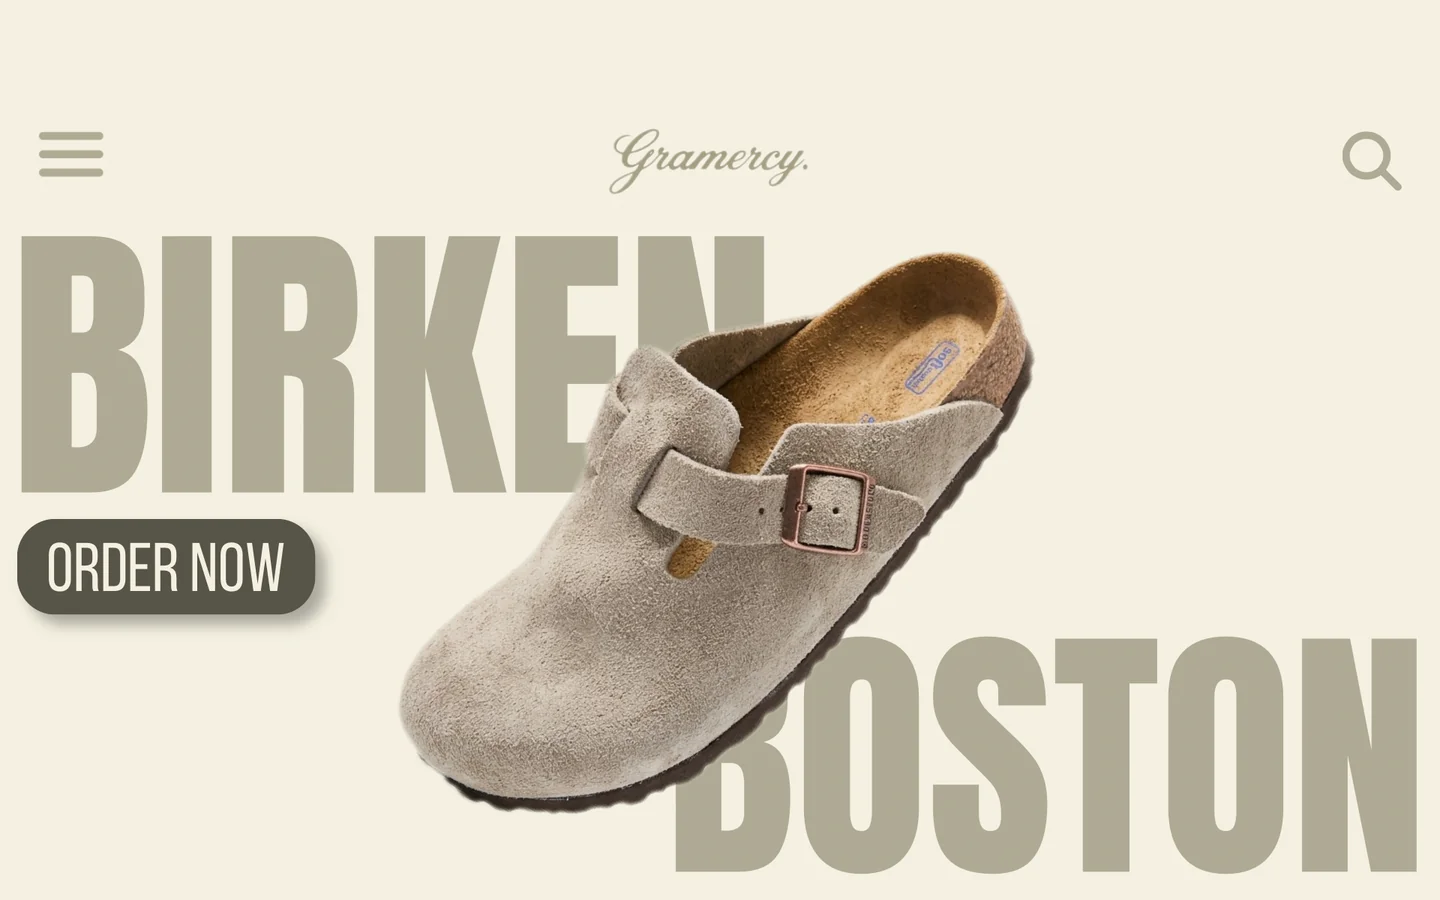
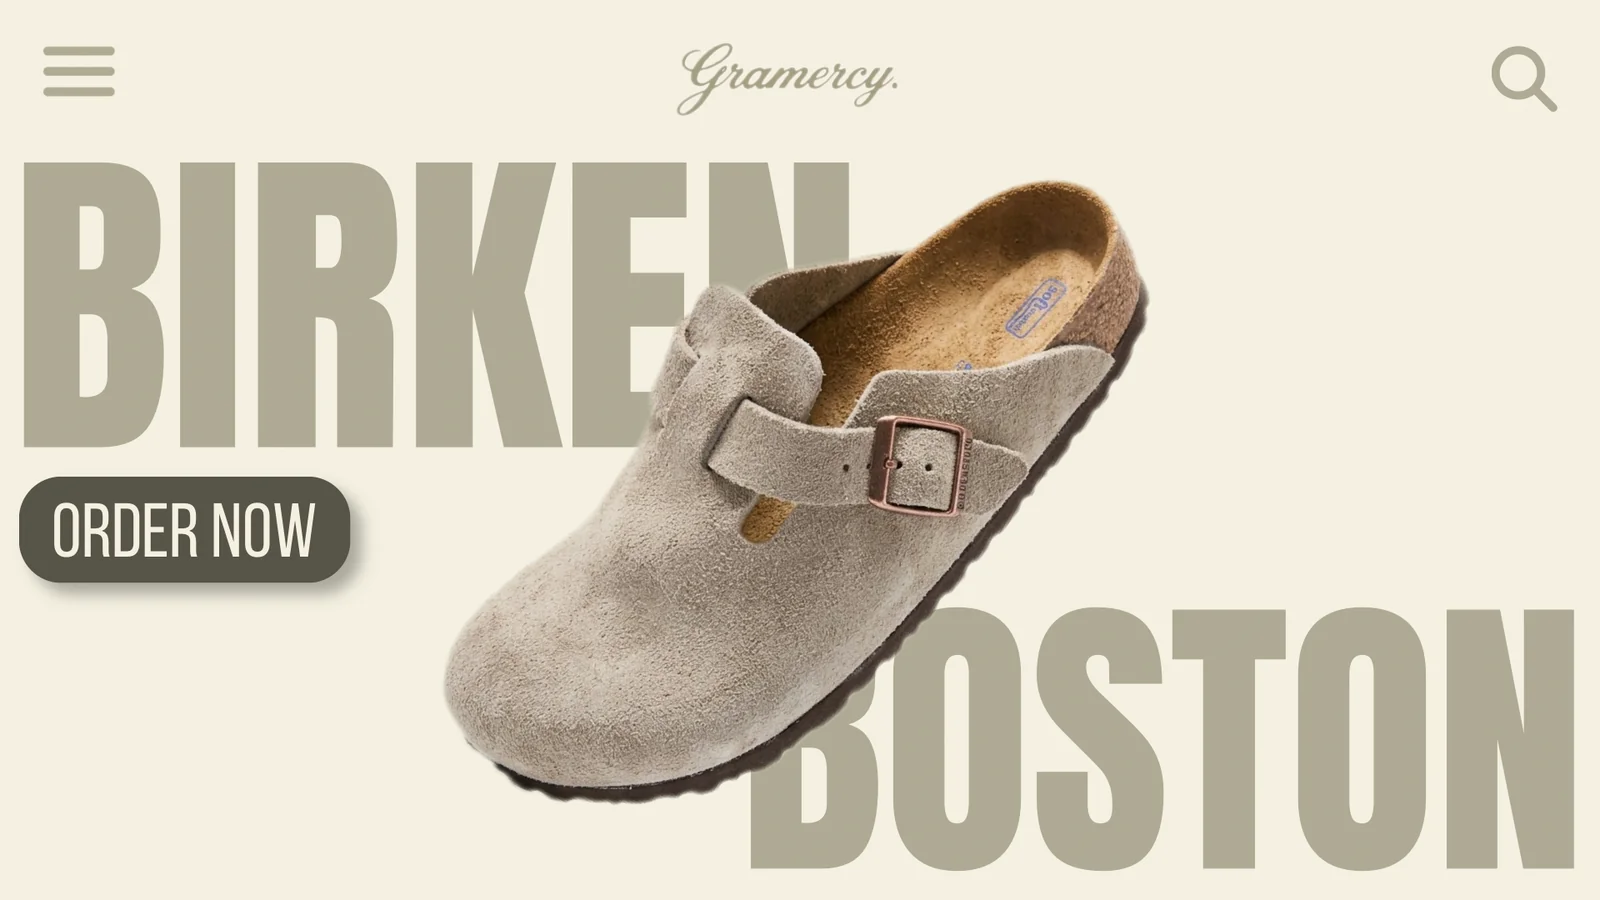
Use a 16:9 laptop screen so the Gramercy screens fit without padding
Claude-Session: https://claude.ai/code/session_01EY3ufN2MeomTbdyd9kzNmH

diff --git a/src/components/screens/Screens.tsx b/src/components/screens/Screens.tsx
@@ -2,7 +2,7 @@ import type { ScreenId } from "@/data/content";
 
 /*
  * Pantallas que se muestran dentro de la laptop y en el portafolio.
- * Las cuatro primeras son pantallas del concepto Gramercy (public/projects, 16:10);
+ * Las cuatro primeras son pantallas del concepto Gramercy (public/projects, 16:9);
  * el panel de métricas es una interfaz propia en HTML.
  */
 
@@ -10,25 +10,25 @@ const images: Record<Exclude<ScreenId, "dashboard">, { src: string; alt: string;
   home: {
     src: "/projects/gramercy-home.webp",
     alt: "Gramercy, portada: zueco Birkenstock Boston con el titular BIRKEN BOSTON y el botón Order now",
-    width: 1440,
+    width: 1600,
     height: 900,
   },
   product: {
     src: "/projects/gramercy-product.webp",
     alt: "Gramercy, ficha de producto: Birkenstock Boston a 50 dólares con delivery gratis, stock y botón para añadir al carrito",
-    width: 1440,
+    width: 1600,
     height: 900,
   },
   cart: {
     src: "/projects/gramercy-cart.webp",
     alt: "Gramercy, carrito: selector de tallas, ubicación de entrega y resumen con total de 50 dólares",
-    width: 1440,
+    width: 1600,
     height: 900,
   },
   payment: {
     src: "/projects/gramercy-payment.webp",
     alt: "Gramercy, métodos de pago: Pago Móvil, Binance y efectivo",
-    width: 1440,
+    width: 1600,
     height: 900,
   },
 };

diff --git a/src/app/globals.css b/src/app/globals.css
@@ -365,7 +365,7 @@ a {
 }
 .laptop__screen {
   position: relative;
-  aspect-ratio: 16 / 10;
+  aspect-ratio: 16 / 9;
   overflow: hidden;
   border-radius: 0.35cqw;
   background: #000;
@@ -1148,7 +1148,7 @@ a {
 }
 .work__screen {
   position: relative;
-  aspect-ratio: 16 / 10;
+  aspect-ratio: 16 / 9;
   container-type: inline-size;
   overflow: hidden;
 }
